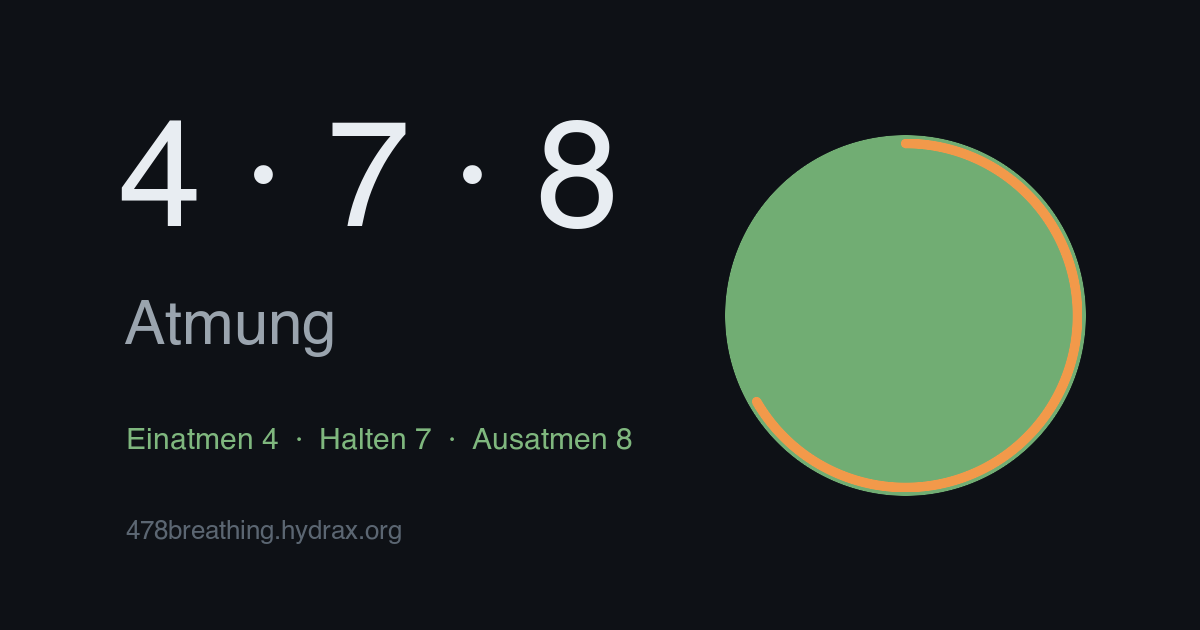
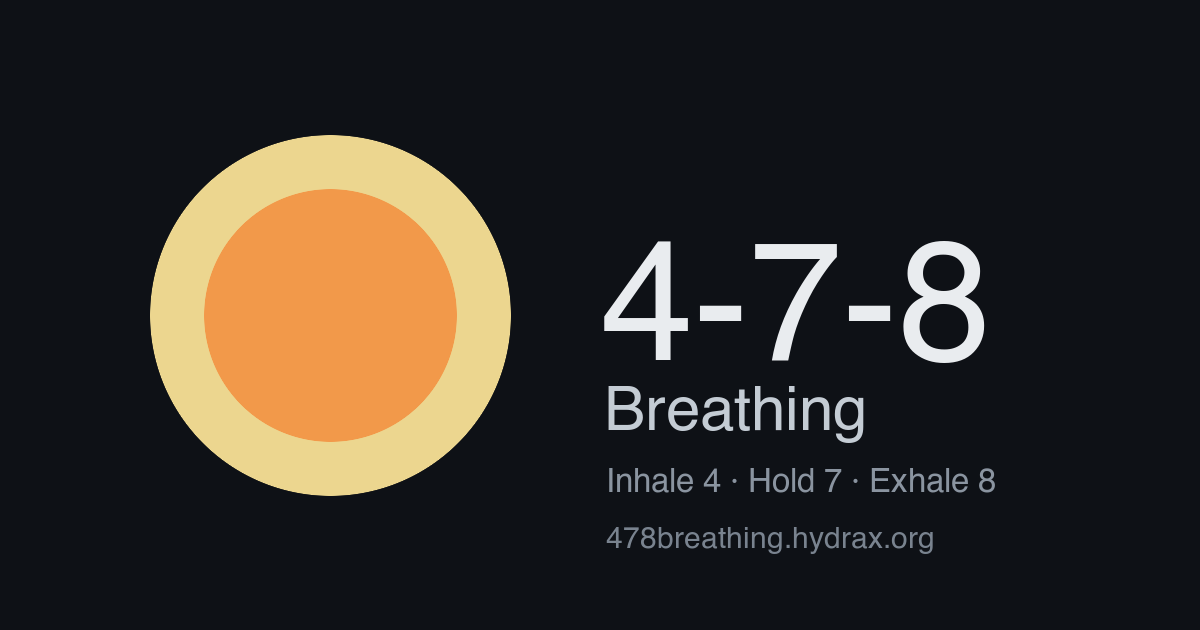
Default to English and dot hold style; add pulse; refresh share image
- Language default is now English (German still switchable); update index
  meta/OG tags, html lang and the sub-pages' first-paint defaults accordingly
- Hold indicator default is the dot; add a third "pulse" option (a gentle
  breathing glow, no precise timer)
- Regenerate og-image.png: dot hold style at ~70%, "4-7-8" without dots,
  English text

diff --git a/app.js b/app.js
@@ -8,14 +8,14 @@
   /* --- Settings (stored locally) --- */
   var STORAGE_KEY = "breathe478.settings";
   var defaults = {
-    lang: "de",          // de | en (German is the default)
+    lang: "en",          // en | de (English is the default; German switchable)
     theme: "system",     // system | light | dark
     sound: false,        // off by default
     soundInhale: "ocean", // inhale sound variant (see audio.js)
     soundExhale: "ocean", // exhale sound variant
     soundEnd: "gong",     // session-end sound variant (auto-stop)
     colorAnimation: true,
-    holdStyle: "ring",   // hold indicator: ring (rim timer) | dot (growing center dot)
+    holdStyle: "dot",    // hold indicator: dot (growing center dot) | ring (rim timer) | pulse (gentle breathing)
     phaseText: false,
     cycleCounter: true,
     autoStopCycles: 0    // 0 = unlimited
@@ -28,7 +28,7 @@
       settings_title: "Einstellungen", language: "Sprache", design: "Design",
       opt_system: "System", opt_light: "Hell", opt_dark: "Dunkel",
       sound: "Ton", soundPage: "Klänge anpassen …", color: "Farbwechsel",
-      holdStyle_label: "Halten-Anzeige", opt_ring: "Ring", opt_dot: "Punkt",
+      holdStyle_label: "Halten-Anzeige", opt_dot: "Punkt", opt_ring: "Ring", opt_pulse: "Pulsieren",
       phaseText: "Phasen-Text",
       counter: "Zyklus-Zähler", autostop: "Auto-Stopp",
       opt_unlimited: "Unbegrenzt", round: "Runde", rounds: "Runden",
@@ -41,7 +41,7 @@
       settings_title: "Settings", language: "Language", design: "Theme",
       opt_system: "System", opt_light: "Light", opt_dark: "Dark",
       sound: "Sound", soundPage: "Adjust sounds …", color: "Color change",
-      holdStyle_label: "Hold display", opt_ring: "Ring", opt_dot: "Dot",
+      holdStyle_label: "Hold display", opt_dot: "Dot", opt_ring: "Ring", opt_pulse: "Pulse",
       phaseText: "Phase label",
       counter: "Cycle counter", autostop: "Auto-stop",
       opt_unlimited: "Unlimited", round: "round", rounds: "rounds",
@@ -83,6 +83,7 @@
   var MIN_SCALE = 0.35;
   var MAX_SCALE = 1.0;
   var RING_CIRCUMFERENCE = 2 * Math.PI * 77.5; // ring on the rim, r = 77.5 in the SVG
+  var PULSE_CYCLES = 3; // gentle "breaths" during the hold in pulse mode
 
   /* --- DOM --- */
   var stage = document.getElementById("stage");
@@ -178,6 +179,7 @@
     breathBtn.classList.add("smooth");
     fill.style.transform = "scale(" + MIN_SCALE + ")";
     fill.style.fill = colors.idle;
+    fill.style.opacity = "1"; // reset any pulse dimming
     ring.style.opacity = "0";
     holdDot.style.opacity = "0";
     phaseTextEl.textContent = "";
@@ -230,7 +232,7 @@
   }
 
   function render(name, t) {
-    var scale, fillColor;
+    var scale, fillColor, fillOpacity = 1;
     var useColor = settings.colorAnimation;
 
     if (name === "inhale") {
@@ -242,18 +244,25 @@
       scale = MAX_SCALE;
       fillColor = useColor ? colors.holdStart : colors.accent;
       var progressColor = useColor ? colors.holdEnd : colors.accent;
-      if (settings.holdStyle === "dot") {
-        // orange dot growing from the center until it fills the circle (linear = steady)
-        ring.style.opacity = "0";
-        holdDot.style.opacity = "1";
-        holdDot.style.fill = progressColor;
-        holdDot.style.transform = "scale(" + t.toFixed(4) + ")";
-      } else {
+      if (settings.holdStyle === "ring") {
         // yellow fill, inner sweeping timer ring in orange (two colors, same family)
         holdDot.style.opacity = "0";
         ring.style.opacity = "1";
         ring.style.stroke = progressColor;
         ring.style.strokeDashoffset = (RING_CIRCUMFERENCE * (1 - t)).toFixed(2);
+      } else if (settings.holdStyle === "pulse") {
+        // gentle "breathing" pulse — a calm mood cue, not a precise timer
+        ring.style.opacity = "0";
+        holdDot.style.opacity = "0";
+        var wave = 0.5 - 0.5 * Math.cos(t * PULSE_CYCLES * 2 * Math.PI); // 0..1..0, repeats
+        scale = MAX_SCALE - 0.02 * wave;
+        fillOpacity = 1 - 0.2 * wave;
+      } else {
+        // default: orange dot growing from the center until it fills the circle (linear = steady)
+        ring.style.opacity = "0";
+        holdDot.style.opacity = "1";
+        holdDot.style.fill = progressColor;
+        holdDot.style.transform = "scale(" + t.toFixed(4) + ")";
       }
     } else { // exhale
       scale = MAX_SCALE - (MAX_SCALE - MIN_SCALE) * easeInOut(t);
@@ -264,6 +273,7 @@
 
     fill.style.transform = "scale(" + scale.toFixed(4) + ")";
     fill.style.fill = fillColor;
+    fill.style.opacity = fillOpacity.toFixed(3);
   }
 
   function updateCounter() {

diff --git a/index.html b/index.html
@@ -1,27 +1,28 @@
 <!DOCTYPE html>
-<html lang="de">
+<html lang="en">
 <head>
   <meta charset="UTF-8">
   <meta name="viewport" content="width=device-width, initial-scale=1, viewport-fit=cover">
   <meta name="theme-color" content="#0e1116" media="(prefers-color-scheme: dark)">
   <meta name="theme-color" content="#e9ecef" media="(prefers-color-scheme: light)">
-  <meta name="description" content="Minimalistische Unterstützung für die 4-7-8-Atmung: 4 Sekunden einatmen, 7 halten, 8 ausatmen.">
-  <title>4-7-8 Atmung</title>
+  <meta name="description" content="A minimalist guide for 4-7-8 breathing: inhale for 4 seconds, hold for 7, exhale for 8.">
+  <title>4-7-8 Breathing</title>
 
   <!-- Open Graph / social sharing (the domain is rewritten at deploy time via the SITE_URL variable) -->
   <meta property="og:type" content="website">
-  <meta property="og:site_name" content="4-7-8 Atmung">
-  <meta property="og:title" content="4-7-8 Atmung – ruhig durchatmen">
-  <meta property="og:description" content="Eine minimalistische Atem-Hilfe: 4 Sekunden einatmen, 7 halten, 8 ausatmen. Ein Kreis führt dich, mit optionalem Ton.">
+  <meta property="og:site_name" content="4-7-8 Breathing">
+  <meta property="og:title" content="4-7-8 Breathing: breathe calmly">
+  <meta property="og:description" content="A minimalist breathing aid: inhale 4 seconds, hold 7, exhale 8. A single circle guides you, with optional sound.">
   <meta property="og:url" content="https://478breathing.hydrax.org/">
   <meta property="og:image" content="https://478breathing.hydrax.org/og-image.png">
   <meta property="og:image:width" content="1200">
   <meta property="og:image:height" content="630">
-  <meta property="og:image:alt" content="4-7-8 Atmung – ein Kreis führt durch die Atemtechnik.">
-  <meta property="og:locale" content="de_DE">
+  <meta property="og:image:alt" content="4-7-8 breathing: a circle guides you through the technique.">
+  <meta property="og:locale" content="en_US">
+  <meta property="og:locale:alternate" content="de_DE">
   <meta name="twitter:card" content="summary_large_image">
-  <meta name="twitter:title" content="4-7-8 Atmung – ruhig durchatmen">
-  <meta name="twitter:description" content="Minimalistische Atem-Hilfe: 4 Sekunden einatmen, 7 halten, 8 ausatmen. Ein Kreis führt dich, mit optionalem Ton.">
+  <meta name="twitter:title" content="4-7-8 Breathing: breathe calmly">
+  <meta name="twitter:description" content="A minimalist breathing aid: inhale 4 seconds, hold 7, exhale 8. A single circle guides you, with optional sound.">
   <meta name="twitter:image" content="https://478breathing.hydrax.org/og-image.png">
   <link rel="icon" href="favicon.svg" type="image/svg+xml">
   <link rel="stylesheet" href="styles.css">
@@ -96,8 +97,9 @@
     <label class="row">
       <span data-i18n="holdStyle_label">Halten-Anzeige</span>
       <select id="setHoldStyle">
-        <option value="ring" data-i18n="opt_ring">Ring</option>
         <option value="dot" data-i18n="opt_dot">Punkt</option>
+        <option value="ring" data-i18n="opt_ring">Ring</option>
+        <option value="pulse" data-i18n="opt_pulse">Pulsieren</option>
       </select>
     </label>
 

diff --git a/technik.html b/technik.html
@@ -1,5 +1,5 @@
 <!DOCTYPE html>
-<html lang="de">
+<html lang="en">
 <head>
   <meta charset="UTF-8">
   <meta name="viewport" content="width=device-width, initial-scale=1, viewport-fit=cover">
@@ -17,7 +17,7 @@
         if (s.theme === "light" || s.theme === "dark") {
           document.documentElement.setAttribute("data-theme", s.theme);
         }
-        if (s.lang === "en") document.documentElement.lang = "en";
+        if (s.lang === "de") document.documentElement.lang = "de";
       } catch (e) {}
     })();
   </script>
@@ -141,8 +141,8 @@
 
   <script>
     (function () {
-      var en = false;
-      try { en = JSON.parse(localStorage.getItem("breathe478.settings") || "{}").lang === "en"; } catch (e) {}
+      var en = true;
+      try { en = JSON.parse(localStorage.getItem("breathe478.settings") || "{}").lang !== "de"; } catch (e) {}
       document.documentElement.lang = en ? "en" : "de";
       document.querySelector('.lang-block[data-lang="de"]').hidden = en;
       document.querySelector('.lang-block[data-lang="en"]').hidden = !en;

diff --git a/ueber.html b/ueber.html
@@ -1,5 +1,5 @@
 <!DOCTYPE html>
-<html lang="de">
+<html lang="en">
 <head>
   <meta charset="UTF-8">
   <meta name="viewport" content="width=device-width, initial-scale=1, viewport-fit=cover">
@@ -17,7 +17,7 @@
         if (s.theme === "light" || s.theme === "dark") {
           document.documentElement.setAttribute("data-theme", s.theme);
         }
-        if (s.lang === "en") document.documentElement.lang = "en";
+        if (s.lang === "de") document.documentElement.lang = "de";
       } catch (e) {}
     })();
   </script>
@@ -81,8 +81,8 @@
 
   <script>
     (function () {
-      var en = false;
-      try { en = JSON.parse(localStorage.getItem("breathe478.settings") || "{}").lang === "en"; } catch (e) {}
+      var en = true;
+      try { en = JSON.parse(localStorage.getItem("breathe478.settings") || "{}").lang !== "de"; } catch (e) {}
       document.documentElement.lang = en ? "en" : "de";
       document.querySelector('.lang-block[data-lang="de"]').hidden = en;
       document.querySelector('.lang-block[data-lang="en"]').hidden = !en;

diff --git a/sound.html b/sound.html
@@ -1,5 +1,5 @@
 <!DOCTYPE html>
-<html lang="de">
+<html lang="en">
 <head>
   <meta charset="UTF-8">
   <meta name="viewport" content="width=device-width, initial-scale=1, viewport-fit=cover">
@@ -17,7 +17,7 @@
         if (s.theme === "light" || s.theme === "dark") {
           document.documentElement.setAttribute("data-theme", s.theme);
         }
-        if (s.lang === "en") document.documentElement.lang = "en";
+        if (s.lang === "de") document.documentElement.lang = "de";
       } catch (e) {}
     })();
   </script>
@@ -37,7 +37,7 @@
       "use strict";
       var STORAGE_KEY = "breathe478.settings";
 
-      var defaults = { lang: "de", soundInhale: "ocean", soundExhale: "ocean", soundEnd: "gong" };
+      var defaults = { lang: "en", soundInhale: "ocean", soundExhale: "ocean", soundEnd: "gong" };
       var settings = {};
       for (var k in defaults) settings[k] = defaults[k];
       try {

diff --git a/README.md b/README.md
@@ -4,14 +4,15 @@ A deliberately minimalist web page that guides the **4-7-8 breathing technique**
 inhale for 4 seconds, hold for 7, exhale for 8.
 
 The UI is a single circle: tap to start the guided breathing, tap again (or the stop
-icon) to end it. The interface is bilingual (German by default, English switchable in the
+icon) to end it. The interface is bilingual (English by default, German switchable in the
 settings); the legal pages (Impressum/Datenschutz) are German only.
 
 ## Features
 
 - **Circle animation:** grows while inhaling (green), stays large while holding, shrinks while
-  exhaling (blue). The **hold indicator** is switchable in the settings: a progress *ring*
-  tracing the rim once (default), or a *dot* growing from the center until it fills the circle.
+  exhaling (blue). The **hold indicator** is switchable in the settings: a *dot* growing from
+  the center until it fills the circle (default), a progress *ring* tracing the rim once, or a
+  gentle *pulse* (a calm breathing glow, no precise timer).
 - **Synthesized sound** (Web Audio, off by default): a soft "ocean breath" that swells on
   the inhale and ebbs on the exhale, silence while holding, plus a soft gong when a session
   ends via auto-stop. No audio files — everything is generated in the browser. A separate